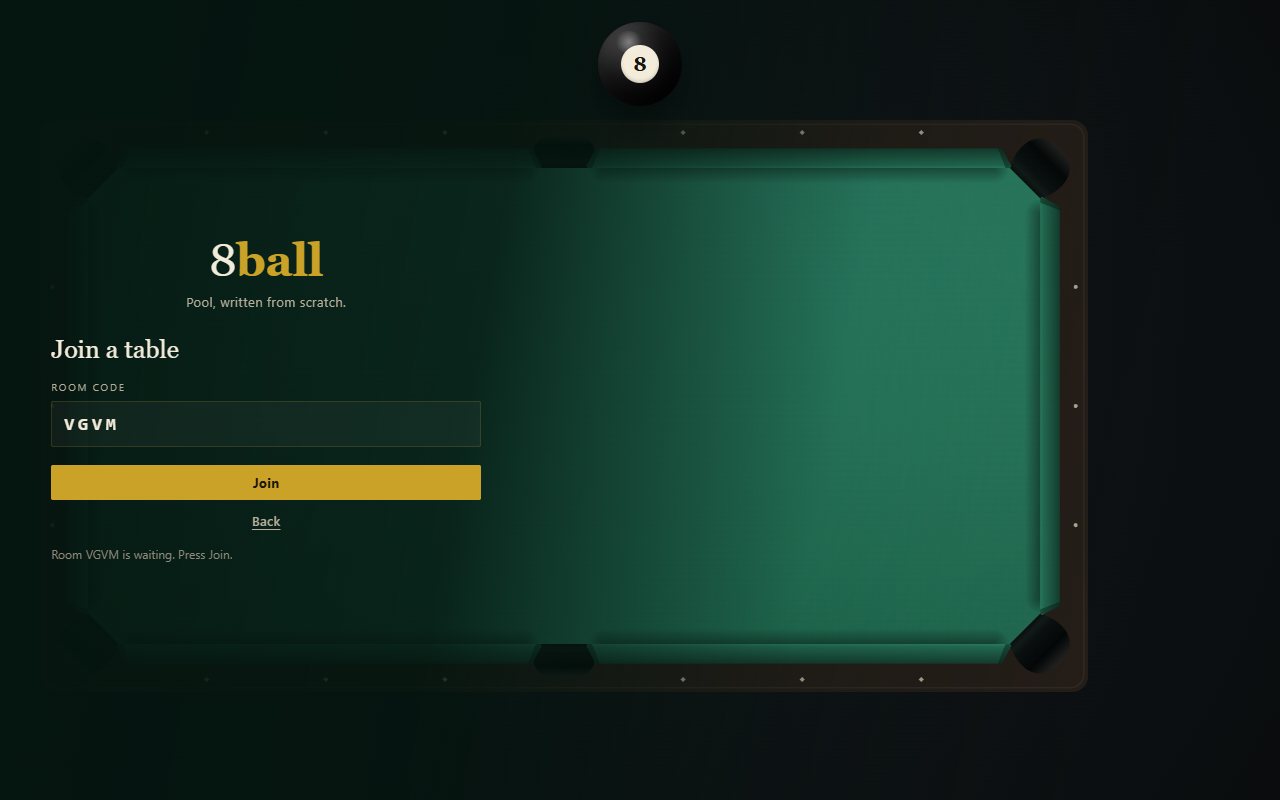
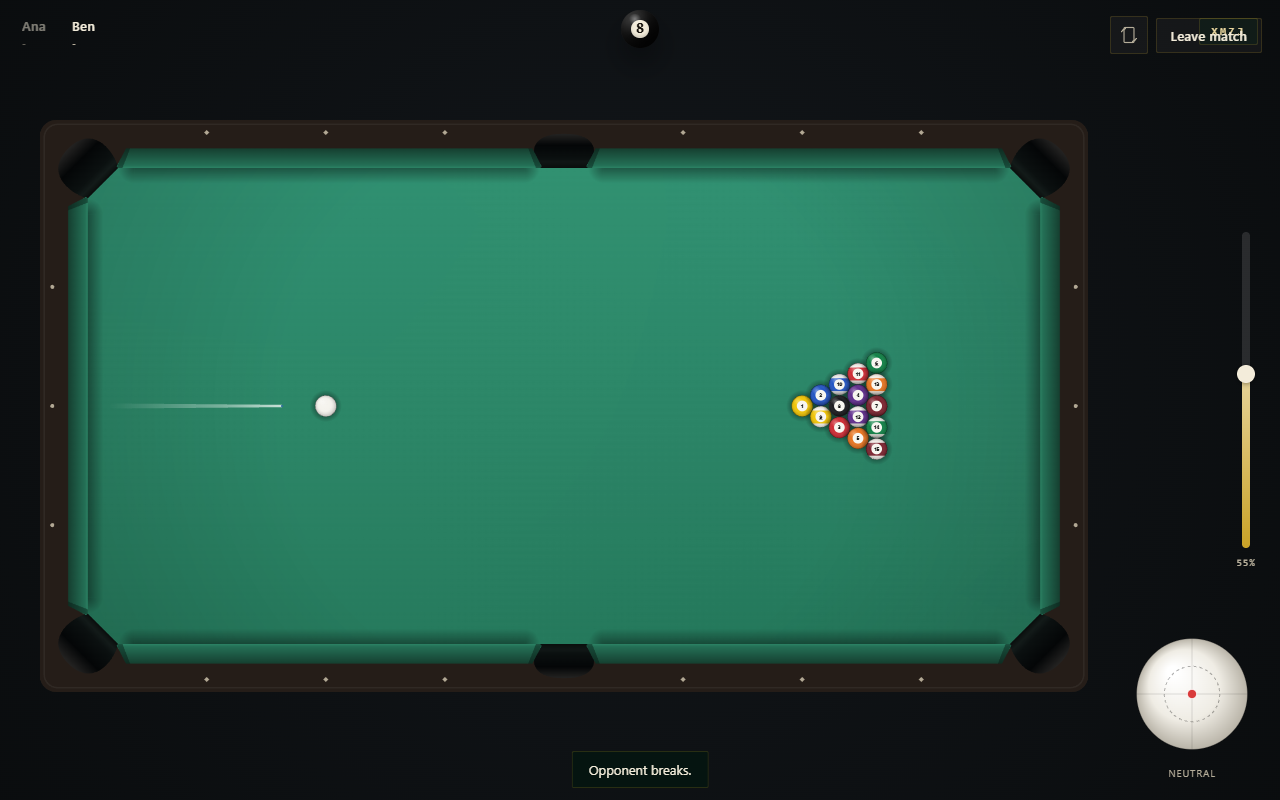
Let a joining player set a name again
The new join view lost the name field, so guests were always 'Player'. Each entry form now has its own box and readName reads the visible one.

diff --git a/src/app.ts b/src/app.ts
@@ -546,7 +546,10 @@ export class App {
   }
 
   private readName(): string {
-    const el = document.getElementById('name') as HTMLInputElement | null;
+    // Each entry form has its own name box; read whichever one is on screen.
+    const host = document.getElementById('name') as HTMLInputElement | null;
+    const guest = document.getElementById('joinnm') as HTMLInputElement | null;
+    const el = host && host.offsetParent !== null ? host : guest;
     const v = (el?.value ?? '').trim().slice(0, 16);
     return v.length > 0 ? v : 'Player';
   }

diff --git a/index.html b/index.html
@@ -92,6 +92,10 @@
         <div id="joinview" class="view hidden">
           <h2>Join a table</h2>
           <label class="field">
+            <span>Your name</span>
+            <input id="joinnm" placeholder="Player" maxlength="16" autocomplete="off" spellcheck="false" />
+          </label>
+          <label class="field">
             <span>Room code</span>
             <input id="code" placeholder="CODE" maxlength="6" autocomplete="off" spellcheck="false" />
           </label>

diff --git a/src/style.css b/src/style.css
@@ -573,6 +573,7 @@ h2 {
 }
 
 #name,
+#joinnm,
 #code {
   width: 100%;
   background: #ffffff0a;
@@ -583,7 +584,8 @@ h2 {
   outline: none;
 }
 
-#name {
+#name,
+#joinnm {
   font: 400 15px/1 var(--ui);
 }
 
@@ -594,6 +596,7 @@ h2 {
 }
 
 #name:focus,
+#joinnm:focus,
 #code:focus {
   border-color: var(--brass);
   background: #ffffff12;
